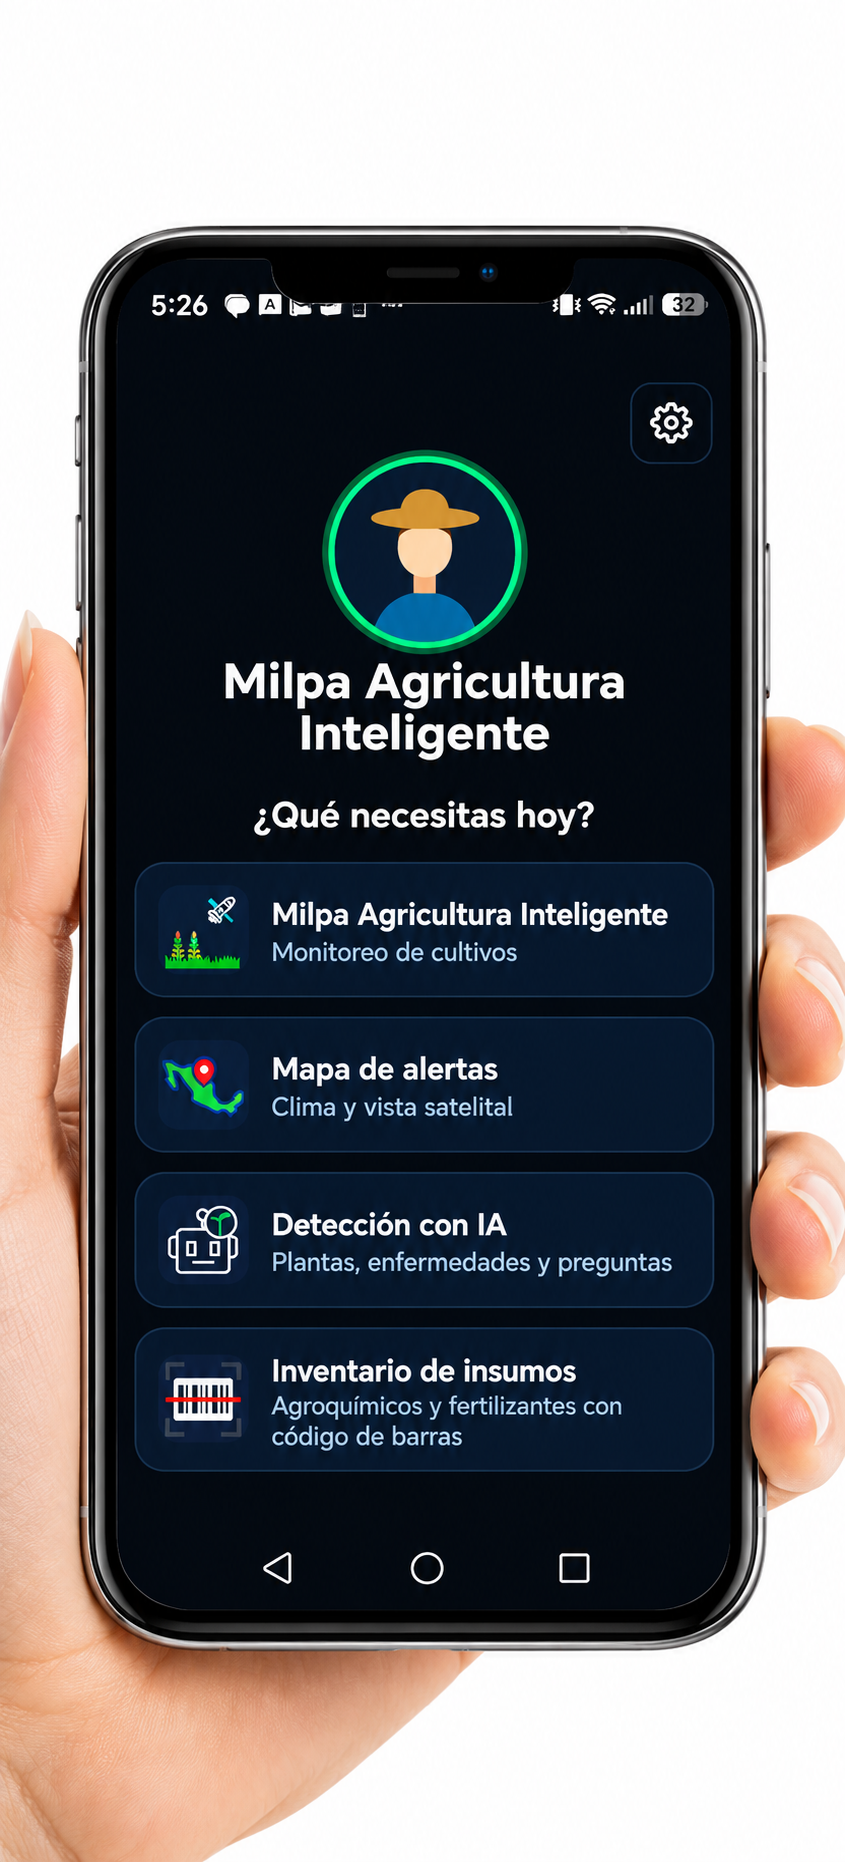
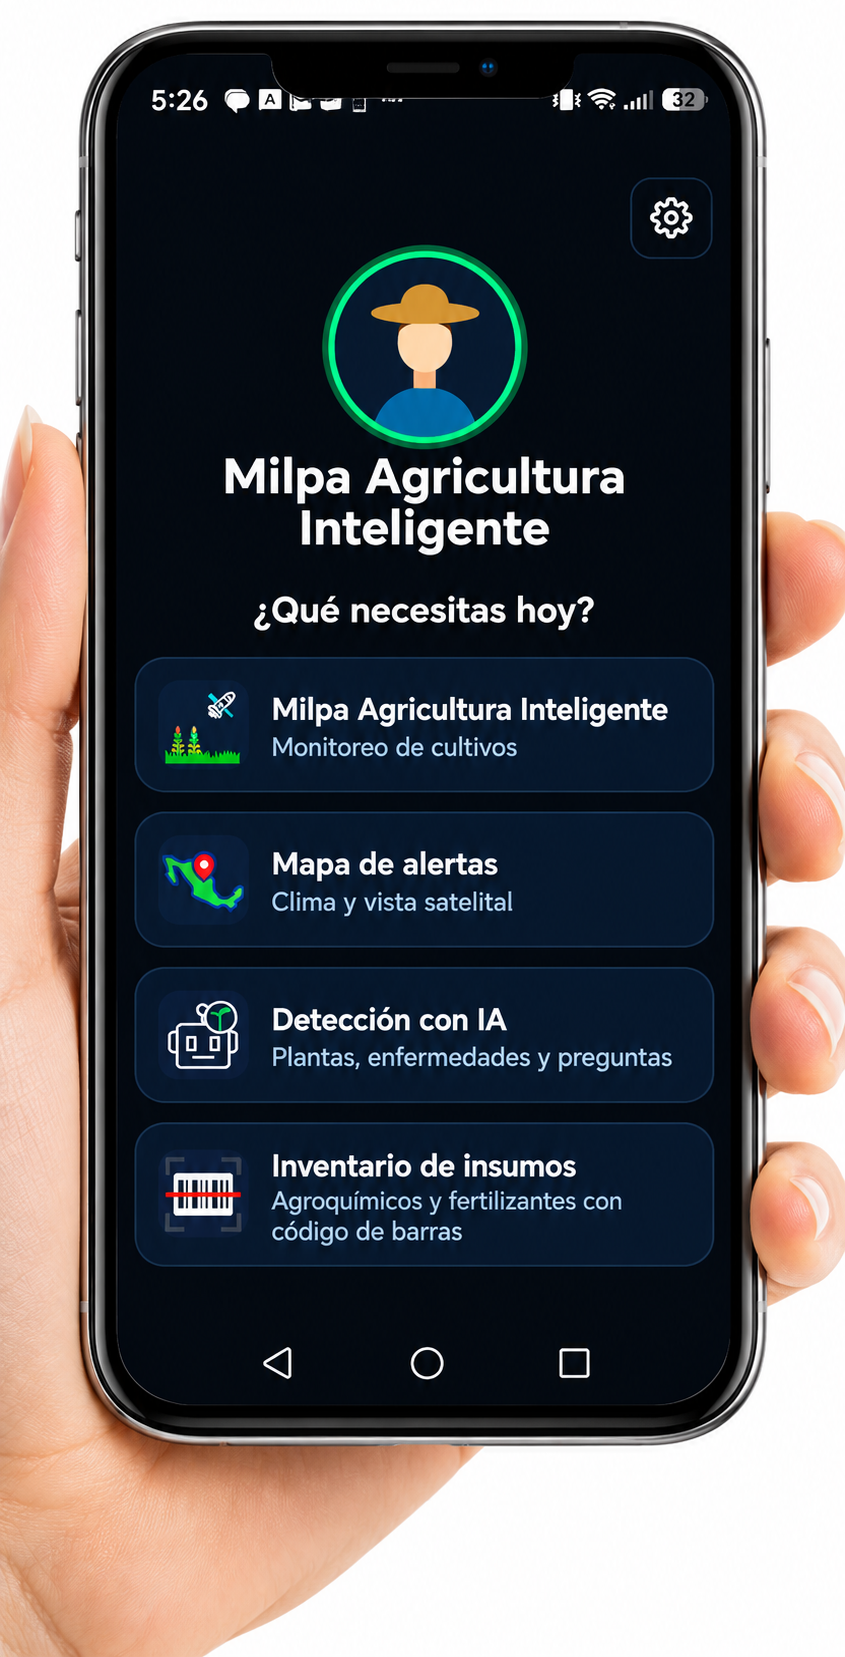
Portal: distribución de la sección de inicio y recorte de la imagen del celular

diff --git a/landing.css b/landing.css
@@ -1036,7 +1036,7 @@ main { max-width: 1080px; margin: 0 auto; padding: 0 16px; }
 .inicio-imagen { margin: 0; text-align: center; }
 .inicio-imagen img { display: block; width: 100%; max-width: 300px; height: auto; margin: 0 auto; }
 @media (min-width: 760px) {
-  .inicio-caja { grid-template-columns: 1fr 320px; align-items: start; }
+  .inicio-caja { grid-template-columns: 1fr 320px; align-items: center; }
   .inicio-texto { order: 1; }
   .inicio-imagen { order: 2; }
 }
